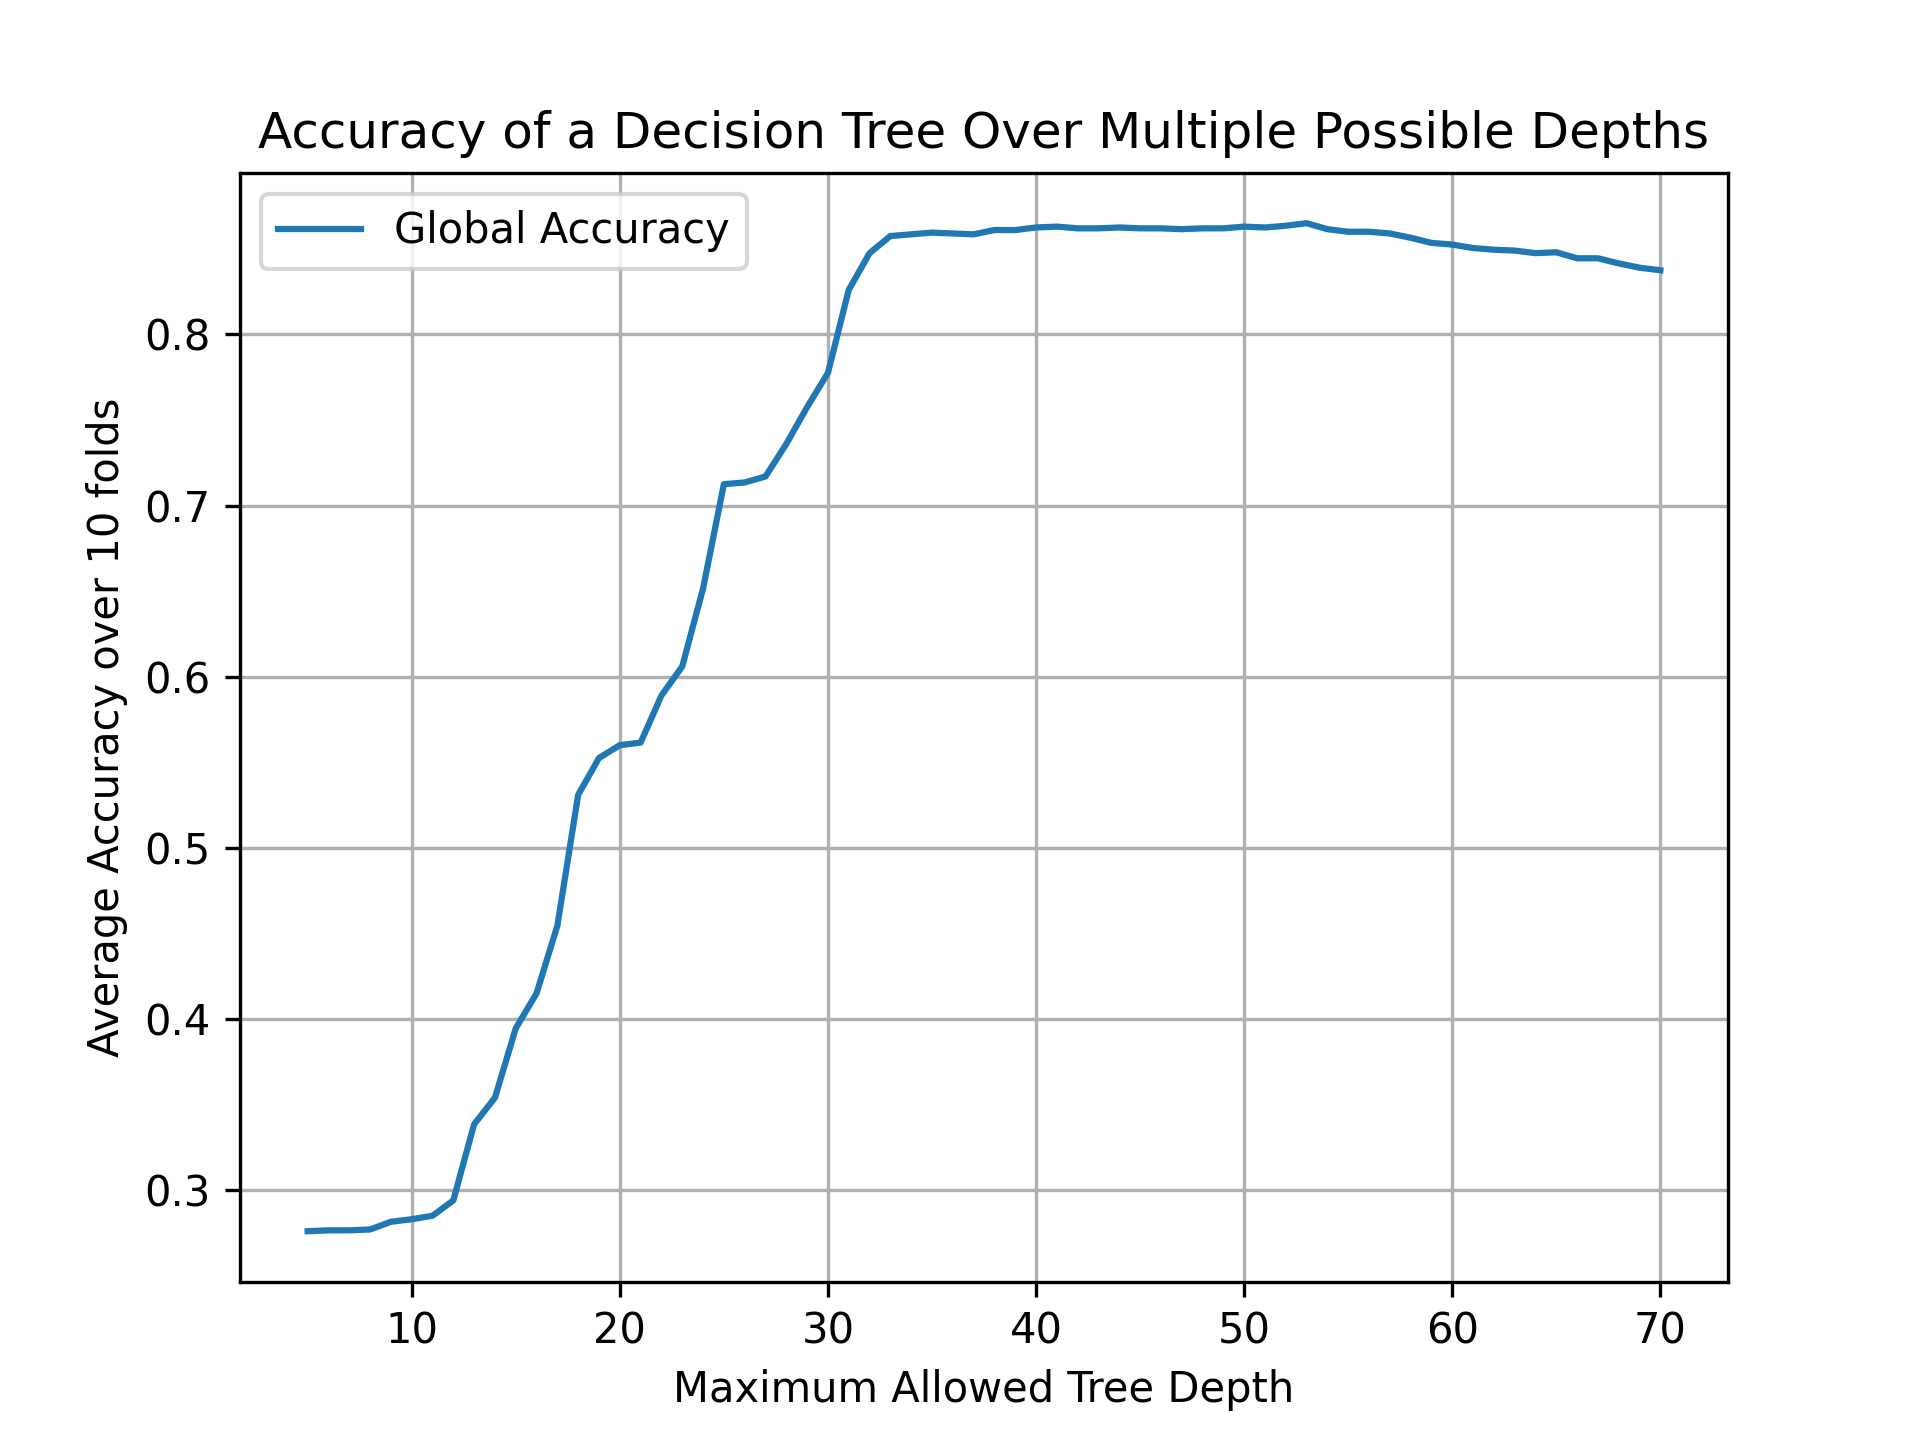
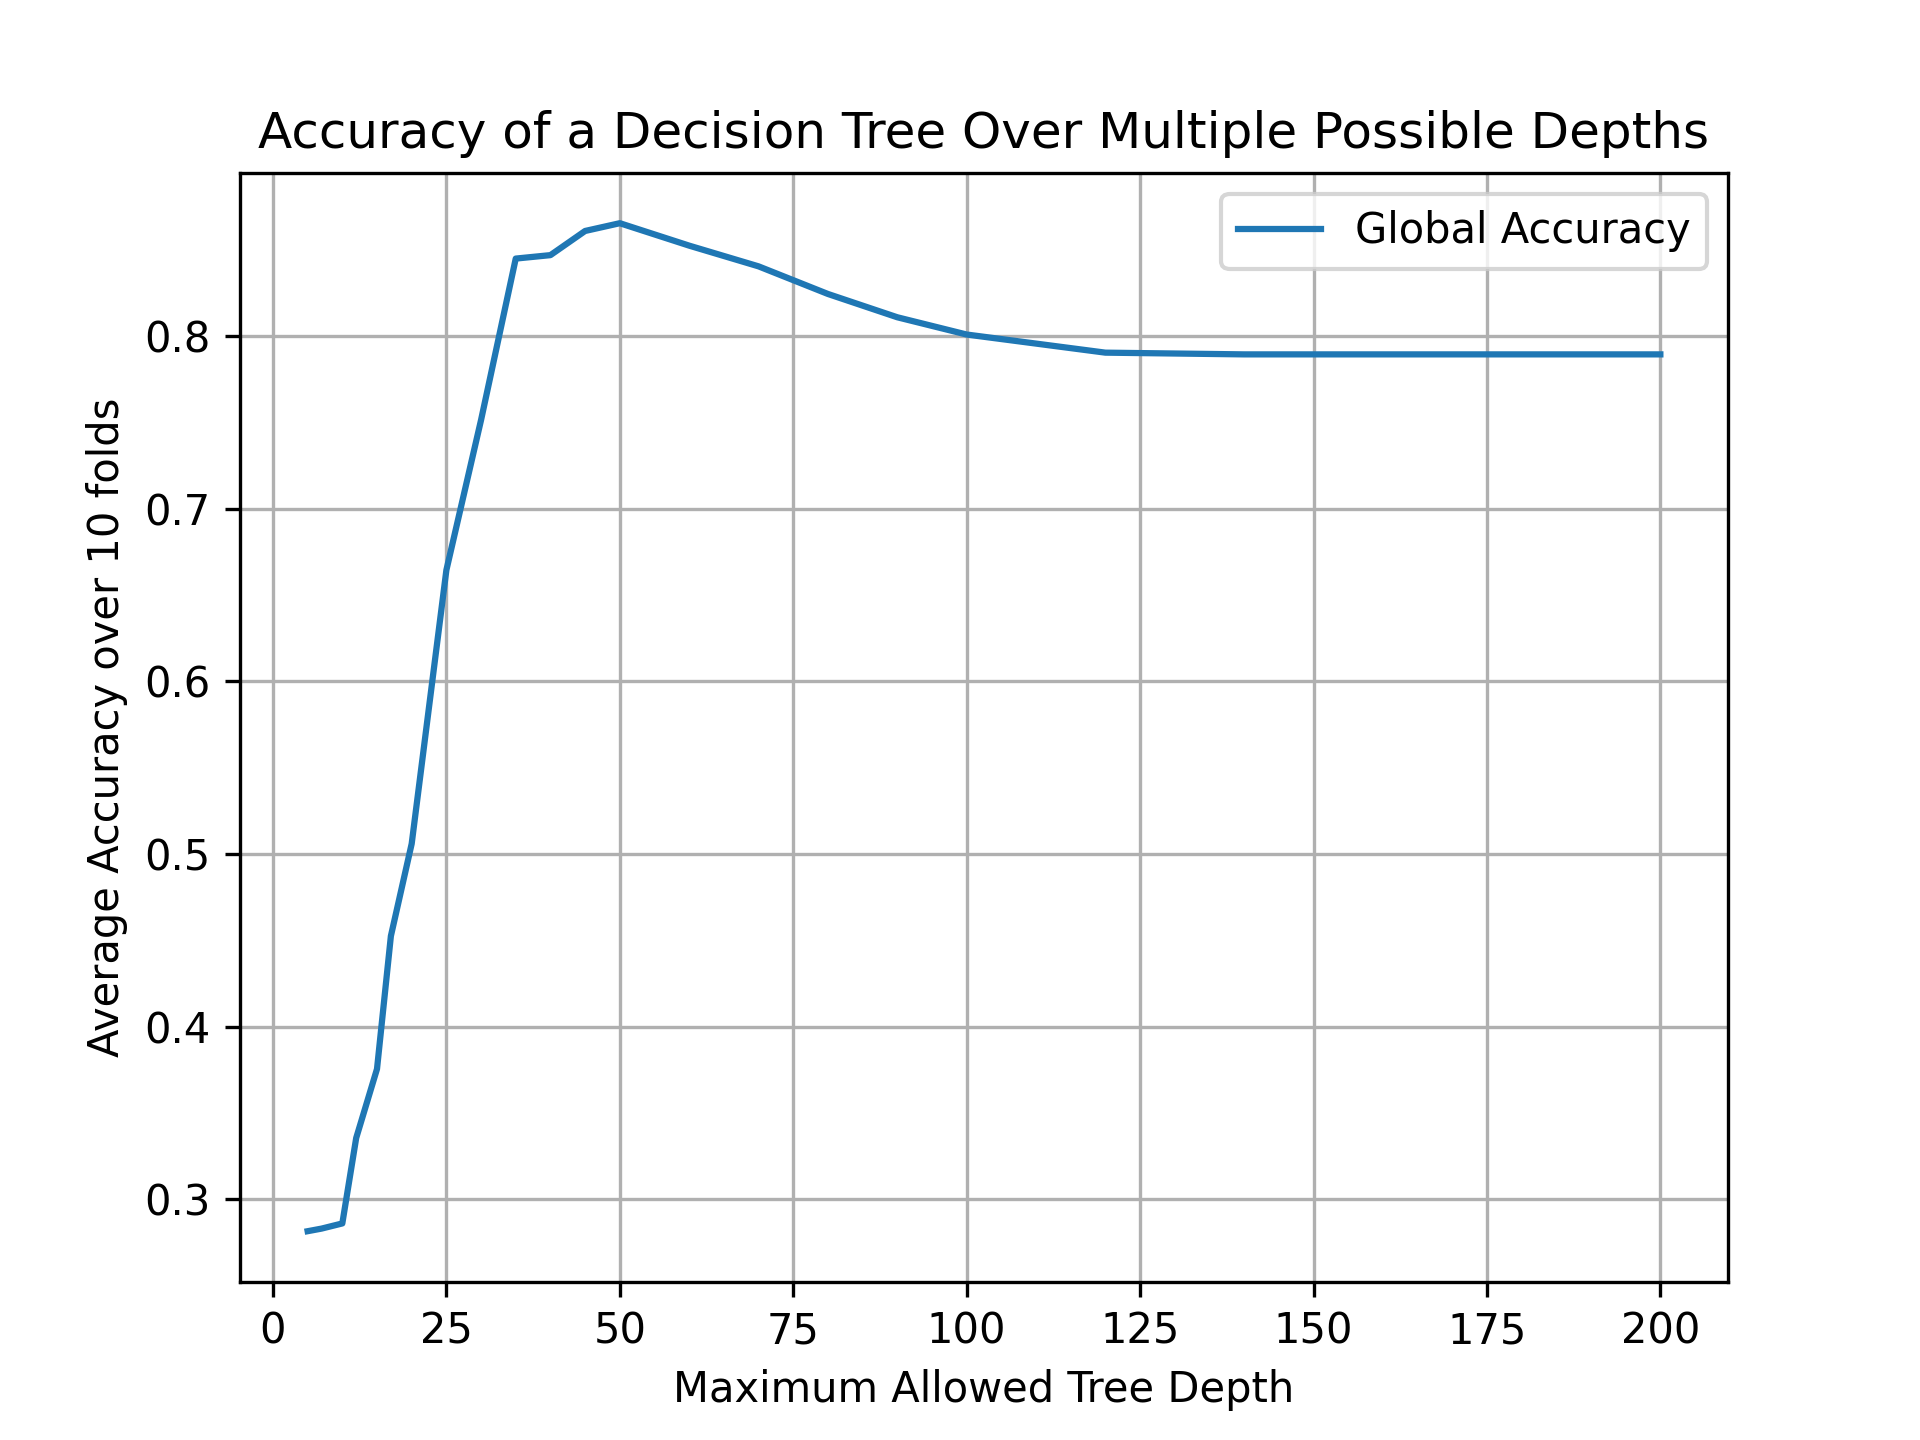
include CLI option to tune depth parameter on dataset

diff --git a/Testbenches.py b/Testbenches.py
@@ -320,27 +320,23 @@ class Depth_Hyperparameter_Tuning():
     (this may not always be the best as it is likely to get high performance due to overfitting)
     
     '''
-    #clean:
-    #best depth: 17 , accuracy: 0.9694999999999998
-
-    #noisy:
-    #best depth: 52 , accuracy: 0.8574999999999999
-    
-    def __init__(self, dataset, tree_model, depth_min = 5, depth_max = 70, num_folds=10, name="clean"):
+    def __init__(self, dataset, tree_model, depth_min = 5, depth_max = 40, num_folds=10, name="clean"):
         
         #assign each parameter to it's corresponding class attribute
         self.DataName = name
         self.dataset = dataset
         self.tree_model = tree_model
-        self.depth_min = depth_min
-        self.depth_max = depth_max
         self.num_folds = num_folds
         newOrder =list(range(len(self.dataset)))
         random.shuffle(newOrder)
-        self.newOrder = newOrder
-        
+        self.newOrder = newOrder    
 
     def depth_test(self, depth_num):
+        '''
+        Trains and tests a dataset on n fold splits at specific depth
+
+        '''
+        
         depth_avgs = []
         
         for iteration_num in range(self.num_folds):
@@ -366,7 +362,7 @@ class Depth_Hyperparameter_Tuning():
                     train_set.append( self.dataset[self.newOrder[i]] )
                 for i in range(test_finish, len(self.dataset)):
                     train_set.append(  self.dataset[self.newOrder[i]])
-            
+                        
             #create an instance of the tree, and evaluate it
             instance = self.tree_model(self.dataset, depth_num, train_given=np.array(train_set), test_given=np.array(test_set))
             results = instance.evaluate_internal()
@@ -380,27 +376,31 @@ class Depth_Hyperparameter_Tuning():
         return depth_avgs
 
 
-    def run(self):
-        '''This function would take a very very long time to run, so uses multiple threads to make runtime much faster'''
+    def run(self,depth_num = [5,7,10,12,15,17,20,25,30,35,40,45,50,60,70,80,90,100,120,140,160,180,200]):
+        '''
+        Uses multiprocessing to simultaeneously train and test the dataset at
+        each of the follow depths in array depth_num
+        
+        Computes best depth based on highest accuracy and returns the depth
+
+        '''
+        
         print("Running hyperparameter tuning on depth paramter")
         manager = mp.Manager()
         depth = manager.dict()
-        depth_num = []
         n_threads = mp.cpu_count()
         print("Starting multiprocessing on", n_threads, "threads")
         if n_threads == None: n_threads = 8
         pool = mp.Pool(n_threads)
-        
-        for i in range(self.depth_min, self.depth_max + 1):
-            depth_num.append(i)
-
+        #spawn threads for each depth
         depth = pool.map(self.depth_test, iterable= depth_num)
-            
+        
         pool.close()
         pool.join()
 
         print('Done', flush=True)
 
+        #calculate average for each depth
         depth_accuracy_avg = depth
         for i in range(len(depth)):
             sum = 0
@@ -409,6 +409,7 @@ class Depth_Hyperparameter_Tuning():
             avg = sum / len(depth[i])
             depth_accuracy_avg[i] = avg
 
+        #find depth with highest accuracy
         best_accuracy = 0
         best_index = 0
         for i in range(len(depth_accuracy_avg)):
@@ -418,6 +419,7 @@ class Depth_Hyperparameter_Tuning():
 
         print("best depth:", depth_num[best_index],", accuracy:", best_accuracy)
 
+     
         #create plot and save to directory
         fig, ax = plt.subplots()
         ax.plot(depth_num, depth_accuracy_avg, label="Global Accuracy")
@@ -428,6 +430,8 @@ class Depth_Hyperparameter_Tuning():
         ax.grid(True)
    
         plt.savefig("./figures/Depth_HyperParameter_Tuning_" + self.DataName + "_.png", dpi=300)
+
+        return depth_num[best_index]
   
 
 

diff --git a/main.py b/main.py
@@ -15,8 +15,15 @@ def main():
 
   print("Loading dataset:", dataset_path)
   dataset = np.loadtxt(dataset_path)
-  
 
+  if depth == "tune":
+    if dataset_path == "WIFI_db/noisy_dataset.txt":
+      hyperParam = TB.Depth_Hyperparameter_Tuning(dataset, Decision_Tree_Classifier.Tree, name = "noisy")
+    else:
+      hyperParam = TB.Depth_Hyperparameter_Tuning(dataset, Decision_Tree_Classifier.Tree, name = "clean")
+      
+    depth = hyperParam.run()
+    
   if mode == "show_tree":
      print("Tree depth:", depth)
      print("Showing the Tree for the {} dataset".format(dataset_path))
@@ -30,15 +37,6 @@ def main():
      benchmark = TB.Model_Comparison_TB(dataset, 10, depth, Decision_Tree_Classifier.Tree, Other_Classifiers.RandomClassifier, Other_Classifiers.NNClassifier)
      benchmark.all_metrics()
      print("All Metric Figures updated in the ./figures directory")
-     
-  elif mode == "depth_benchmark":
-    print("Tree depth ignored, running range [4,70]")
-    if dataset_path == "WIFI_db/noisy_dataset.txt":
-      hyperParam = TB.Depth_Hyperparameter_Tuning(dataset, Decision_Tree_Classifier.Tree, name = "noisy")
-    else:
-      hyperParam = TB.Depth_Hyperparameter_Tuning(dataset, Decision_Tree_Classifier.Tree, name = "clean")
-      
-    hyperParam.run()
     
   elif mode == "normal":
     print("Generating Normal Distribution ...")
